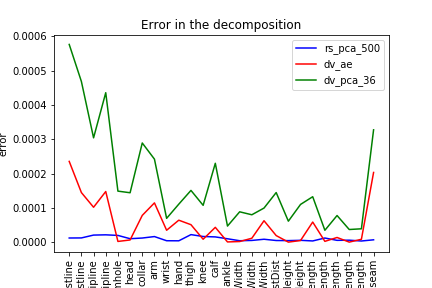
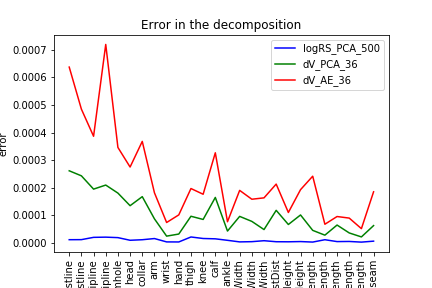
evaluate feature/decomposition/regression seperately

diff --git a/semantic_body/postprocessing/main.cpp b/semantic_body/postprocessing/main.cpp
@@ -582,12 +582,12 @@ void getFaceFeatureMeature(const char* infile, const char* outfile) {
 
 int main() {
 
-	//getFaceFeatureMeature("../data/recover/pca_logrs", "../data/recover/pca_logrs_roughExact");
+	getFaceFeatureMeature("../data/recover/logrs_pca_rnn", "../data/recover/logrs_pca_rnn_roughExact");
 	//Eigen::MatrixXd feature;
 	//common::read_matrix_binary_from_file("../data/test/logRS", feature);
 	//recoverFromFaceFeature("../data/recover/testroughExact", feature);
 
-	getVertexMeature("../data/recover/ae_dv", "../data/recover/ae_dv_roughexact");
+	//getVertexMeature("../data/recover/dv_ae_rnn", "../data/recover/dv_ae_rnn_roughexact");
 
 	getchar();
 }

diff --git a/semantic_body/python/test.py b/semantic_body/python/test.py
@@ -17,8 +17,10 @@ x = np.arange(0, cols)
 plt.errorbar(x, y4, yerr=y3, c='r', linewidth=1)
 plt.scatter(x, y1, c='b')
 plt.scatter(x, y2, c='b')
-plt.savefig('../images/chartgraph/measuredata.png',bbox_inches='tight')
 
 print(y1)
 print(y2)
+
+plt.title('Range of each measurement label')
+plt.savefig('../images/chartgraph/measurerange.png')
 plt.show()

diff --git a/semantic_body/python/newEvaluate.py b/semantic_body/python/newEvaluate.py
@@ -34,7 +34,4 @@ x = np.arange(0, cols)
 
 plt.plot(x, MSE(rawExact, rsadExact, 0), label='dV_pca_rf', color='b')
 
-plt.title('Median')
-plt.legend(loc='best')
-plt.show()
 
